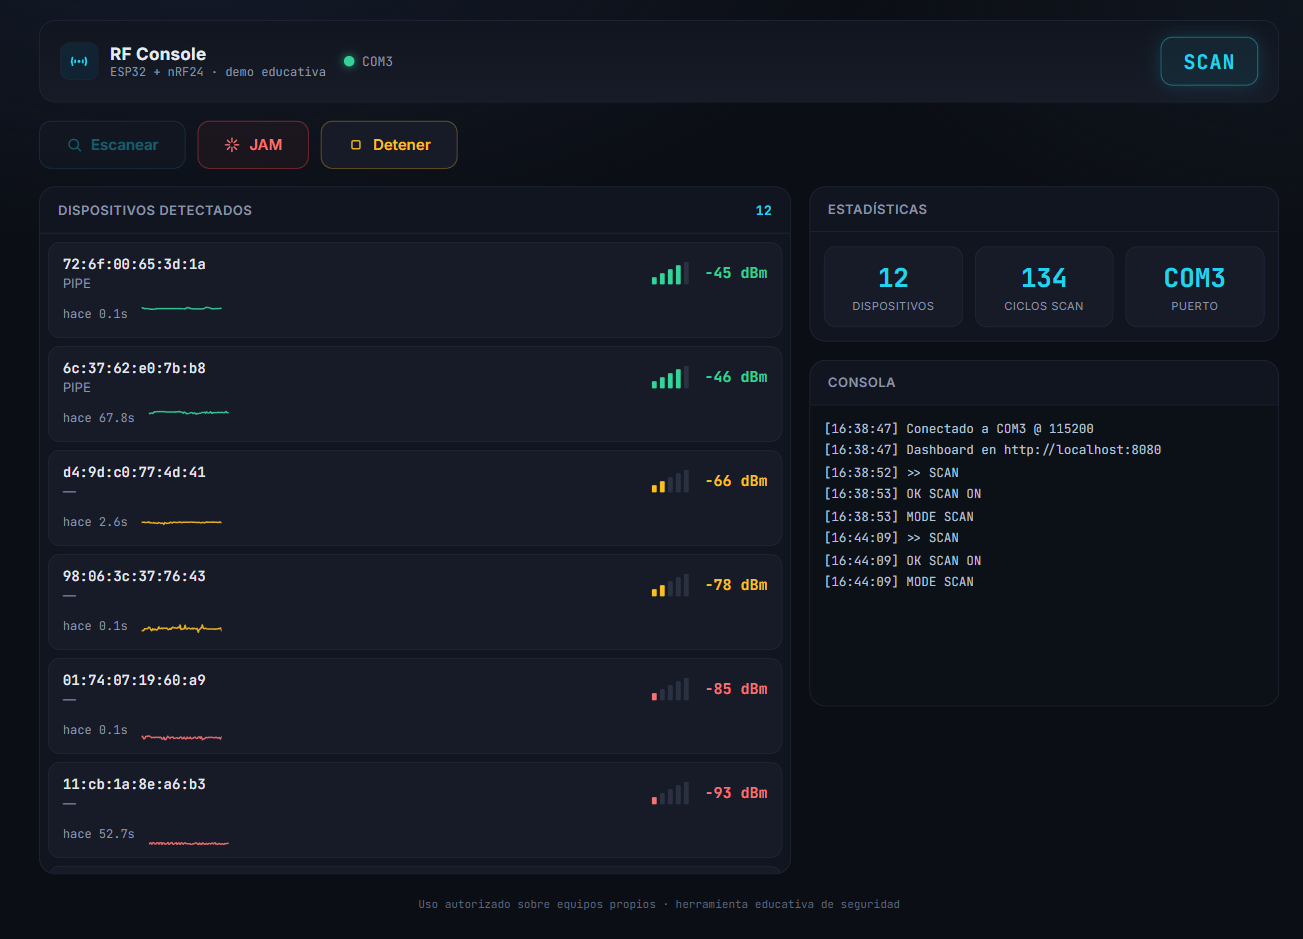
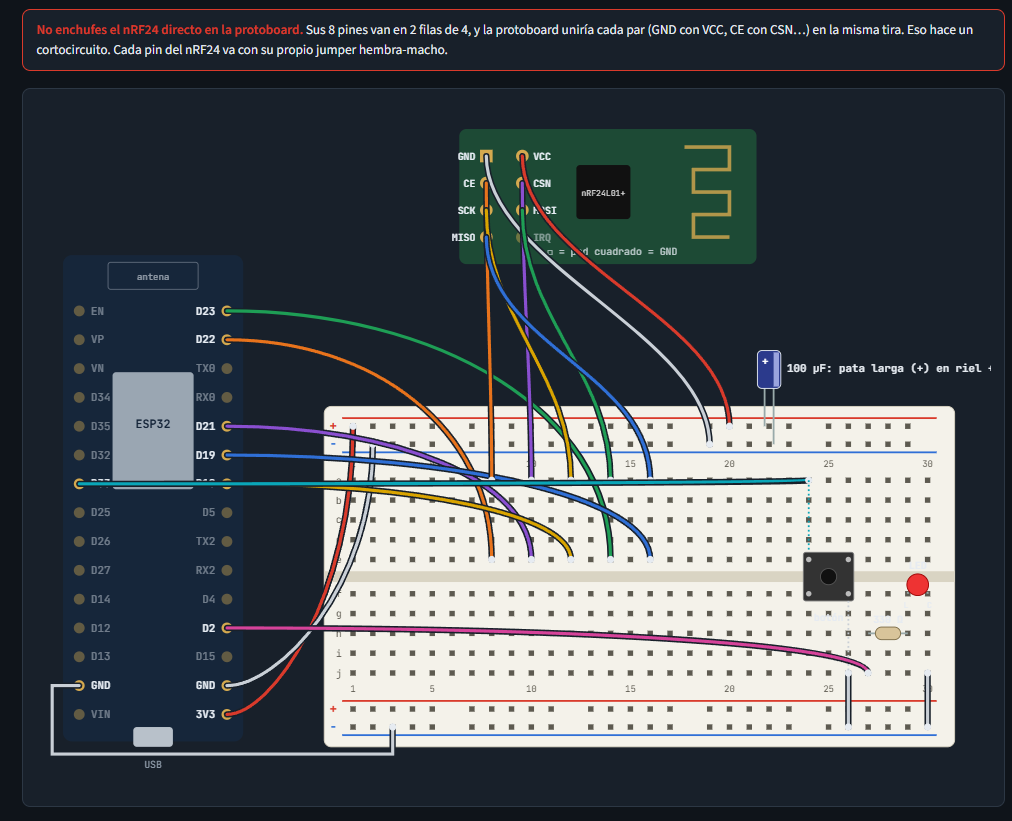
Mejora jamming (barrido 2402-2480 MHz) y agrega foto del montaje

diff --git a/README.md b/README.md
@@ -62,6 +62,7 @@ docs/
   MONTAJE.md                  guía de montaje y cableado paso a paso
   conexion_esp32_nrf24.svg    esquema de conexión ESP32 ↔ nRF24
   montaje_protoboard.svg      montaje en protoboard
+  montaje_foto.png            foto del montaje real
   dashboard.png               captura del dashboard
   hero.svg                    banner animado
 ```
@@ -89,6 +90,8 @@ Además: **LED** de estado en GPIO 2 y **botón** (a GND, con `INPUT_PULLUP`) en
 
 <p align="center">
   <img src="docs/montaje_protoboard.svg" alt="Montaje en protoboard del ESP32 y el nRF24L01+" width="70%">
+  <br>
+  <img src="docs/montaje_foto.png" alt="Foto del montaje real" width="70%">
 </p>
 
 El ESP32 va **fuera** de la protoboard y se conecta con jumpers hembra-macho; el nRF24
@@ -131,7 +134,7 @@ Comandos que acepta el firmware (por USB o reenviados por el dashboard):
 |--------------------|----------------------------------------------------|
 | `SCAN`             | inicia el escaneo BLE                              |
 | `NOSCAN` / `SCANOFF` | detiene el escaneo                              |
-| `J` / `JAM`        | activa la portadora en los canales BLE 2/26/80    |
+| `J` / `JAM`        | activa barrido continuo 2402–2480 MHz (canales 2–80) en todas las radios |
 | `X` / `STOP`       | detiene jamming y escaneo                          |
 | `S` / `STATUS`     | imprime el modo actual (`IDLE`/`SCAN`/`JAM`)      |
 | `PING`             | responde `PONG`                                    |
@@ -139,6 +142,34 @@ Comandos que acepta el firmware (por USB o reenviados por el dashboard):
 
 Salida relevante: `DEV <mac> <rssi> <nombre>` por cada anuncio BLE, `MODE <estado>`,
 `SCANEND` al cerrar un ciclo de escaneo. El pulsador en GPIO 33 alterna el jamming sin PC.
+
+## Modos y configuración de jamming
+
+El firmware `rf_console` expone estas opciones en tiempo de compilación (defines al inicio de `rf_console.ino`):
+
+| Define          | Valor por defecto | Descripción                                                                 |
+|-----------------|-------------------|-----------------------------------------------------------------------------|
+| `RADIO2_PINS`   | `0`               | `1` = habilita un 2º nRF24L01+ en bus HSPI (ver cableado abajo)            |
+| `WIFI_JAM`      | `0`               | `1` = emite ruido wideband experimental con el WiFi del ESP32 (ver nota)   |
+| `CH_SWEEP_LOW`  | `2`               | Canal nRF24 inicial del barrido (2 = 2402 MHz, límite bajo BT)             |
+| `CH_SWEEP_HIGH` | `80`              | Canal nRF24 final del barrido (80 = 2480 MHz, límite alto BT)              |
+| `PLL_DWELL_US`  | `150`             | µs de asentamiento del PLL tras cada salto de canal                        |
+
+### Cableado 2º nRF24L01+ (HSPI)
+
+| nRF24L01+ | ESP32 (HSPI) |
+|-----------|--------------|
+| CE        | GPIO 26      |
+| CSN       | GPIO 27      |
+| SCK       | GPIO 14      |
+| MOSI      | GPIO 13      |
+| MISO      | GPIO 12      |
+| VCC       | 3.3 V externos |
+| GND       | GND          |
+
+> **Nota sobre `WIFI_JAM`**: es **experimental**. Usa `esp_wifi_80211_tx` para inyectar tramas 802.11 crudas en los canales 1, 6 y 11. La API (`wifi_ieee80211_pkt_t`, `esp_wifi_80211_tx`) puede variar según la versión del core ESP32 Arduino; si no compila, desactívalo (`#define WIFI_JAM 0`) o adapta el bloque `#if WIFI_JAM` al core instalado.
+
+El sketch `jammer_ble` (solo botón, sin BLE ni serial) usa un barrido idéntico de 80 canales (2–80, `PLL_DWELL_US=150`) con una única radio; no expone `RADIO2_PINS` ni `WIFI_JAM`.
 
 ### API del dashboard
 

diff --git a/docs/MONTAJE.md b/docs/MONTAJE.md
@@ -9,6 +9,8 @@ trae impresos la protoboard.
   <img src="conexion_esp32_nrf24.svg" alt="Esquema de conexión ESP32 ↔ nRF24" width="90%">
   <br>
   <img src="montaje_protoboard.svg" alt="Montaje en protoboard" width="90%">
+  <br>
+  <img src="montaje_foto.png" alt="Foto del montaje" width="90%">
 </p>
 
 > [!WARNING]
